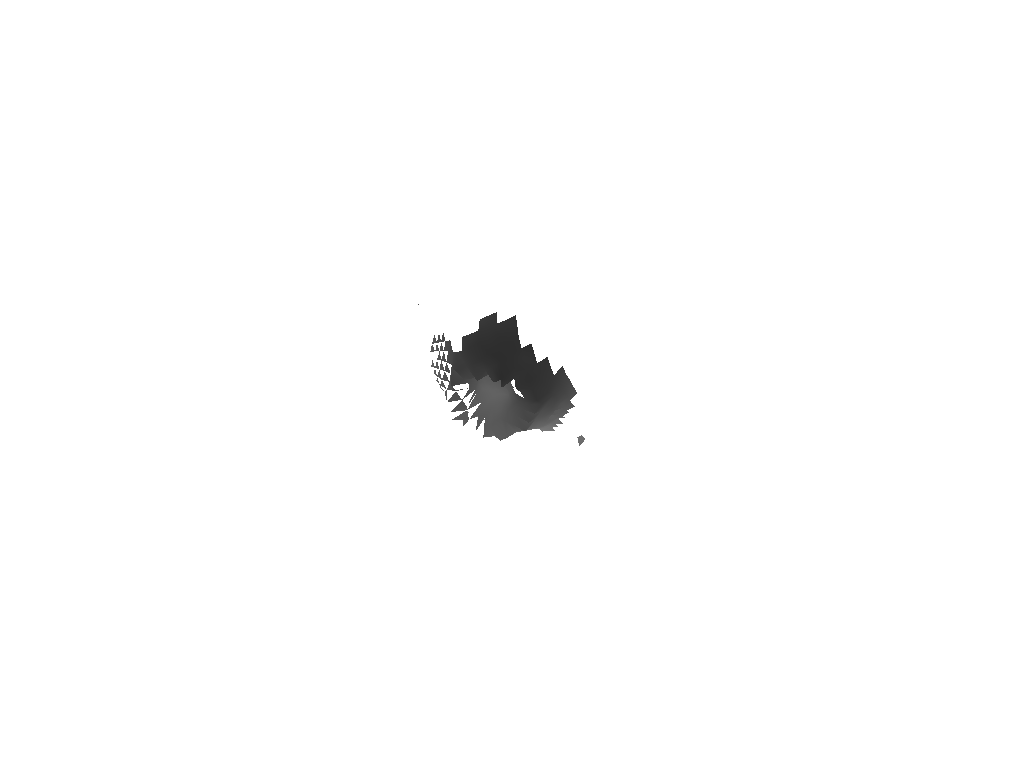
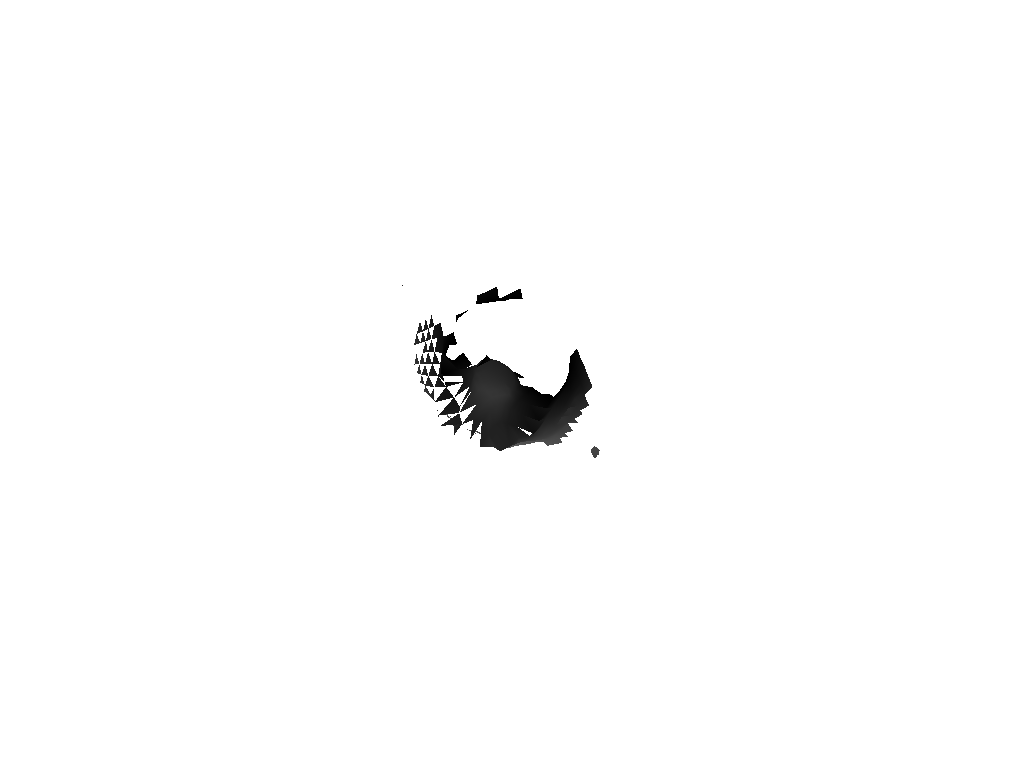
Fixes 19 : Lambertian Illumination

Changed region(s): [[0.4062, 0.375, 0.5938, 0.5938]]

diff --git a/EmeraldIsle/main.cpp b/EmeraldIsle/main.cpp
@@ -39,7 +39,7 @@ const glm::vec3 wave500(0.0f, 255.0f, 146.0f);
 const glm::vec3 wave600(255.0f, 190.0f, 0.0f);
 const glm::vec3 wave700(205.0f, 0.0f, 0.0f);
 const glm::vec3 lightIntensity = 10000.0f * glm::vec3(255.0f, 244.0f, 214.0f);
-const glm::vec3 lightPosition(-75.0f, 100.0f, -75.0f);
+const glm::vec3 lightPosition(-50.0f, 100.0f, -50.0f);
 
 // Shadow mapping
 static glm::vec3 lightUp = glm::normalize(glm::vec3(0.333, 0.333, 0.883));
